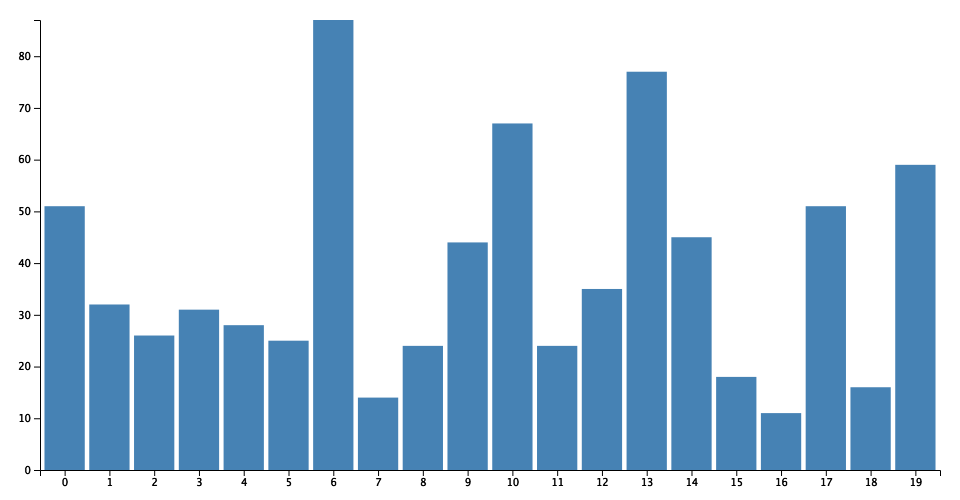
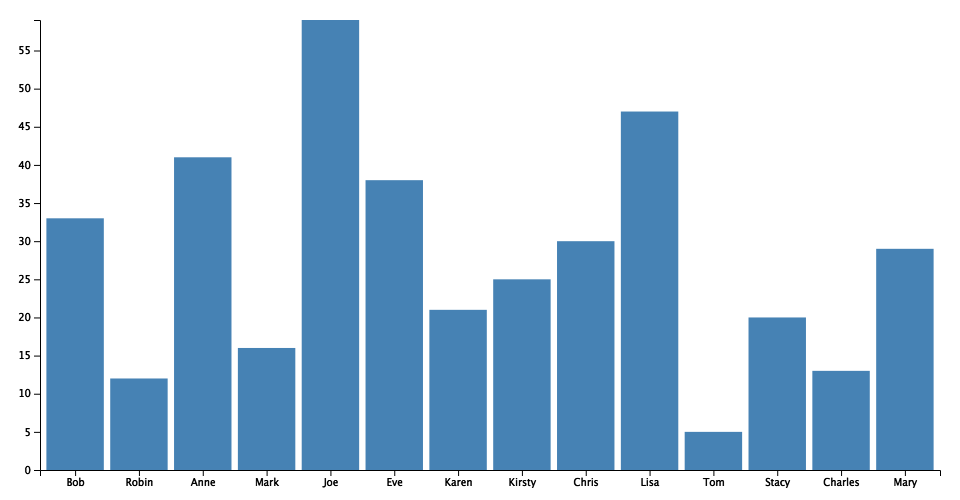
add data files readding; update dependencies

diff --git a/example/output.html b/example/output.html
@@ -3,6 +3,6 @@
       <div id="chart"><svg xmlns="http://www.w3.org/2000/svg" width="960" height="500"><defs><style type="text/css"><![CDATA[ 
     .bar { fill: steelblue; }
     .bar:hover { fill: brown; }
-   ]]></style></defs><g transform="translate(40, 20)"><rect class="bar" x="4.477611940298459" width="40.29850746268657" y="186.20689655172418" height="263.7931034482758"></rect><rect class="bar" x="49.25373134328354" width="40.29850746268657" y="284.48275862068965" height="165.51724137931035"></rect><rect class="bar" x="94.02985074626862" width="40.29850746268657" y="315.51724137931035" height="134.48275862068965"></rect><rect class="bar" x="138.8059701492537" width="40.29850746268657" y="289.65517241379314" height="160.34482758620686"></rect><rect class="bar" x="183.58208955223878" width="40.29850746268657" y="305.1724137931035" height="144.8275862068965"></rect><rect class="bar" x="228.35820895522386" width="40.29850746268657" y="320.68965517241384" height="129.31034482758616"></rect><rect class="bar" x="273.13432835820896" width="40.29850746268657" y="0" height="450"></rect><rect class="bar" x="317.910447761194" width="40.29850746268657" y="377.58620689655174" height="72.41379310344826"></rect><rect class="bar" x="362.6865671641791" width="40.29850746268657" y="325.8620689655172" height="124.13793103448279"></rect><rect class="bar" x="407.4626865671642" width="40.29850746268657" y="222.41379310344826" height="227.58620689655174"></rect><rect class="bar" x="452.23880597014926" width="40.29850746268657" y="103.44827586206901" height="346.551724137931"></rect><rect class="bar" x="497.01492537313436" width="40.29850746268657" y="325.8620689655172" height="124.13793103448279"></rect><rect class="bar" x="541.7910447761194" width="40.29850746268657" y="268.9655172413793" height="181.0344827586207"></rect><rect class="bar" x="586.5671641791046" width="40.29850746268657" y="51.72413793103448" height="398.2758620689655"></rect><rect class="bar" x="631.3432835820895" width="40.29850746268657" y="217.24137931034483" height="232.75862068965517"></rect><rect class="bar" x="676.1194029850747" width="40.29850746268657" y="356.8965517241379" height="93.10344827586209"></rect><rect class="bar" x="720.8955223880598" width="40.29850746268657" y="393.1034482758621" height="56.89655172413791"></rect><rect class="bar" x="765.6716417910447" width="40.29850746268657" y="186.20689655172418" height="263.7931034482758"></rect><rect class="bar" x="810.4477611940299" width="40.29850746268657" y="367.2413793103448" height="82.75862068965517"></rect><rect class="bar" x="855.2238805970151" width="40.29850746268657" y="144.82758620689657" height="305.17241379310343"></rect><g transform="translate(0,450)" fill="none" font-size="10" font-family="sans-serif" text-anchor="middle"><path class="domain" stroke="#000" d="M0.5,6V0.5H900.5V6"></path><g class="tick" opacity="1" transform="translate(24.626865671641745,0)"><line stroke="#000" y2="6" x1="0.5" x2="0.5"></line><text fill="#000" y="9" x="0.5" dy="0.71em">0</text></g><g class="tick" opacity="1" transform="translate(69.40298507462683,0)"><line stroke="#000" y2="6" x1="0.5" x2="0.5"></line><text fill="#000" y="9" x="0.5" dy="0.71em">1</text></g><g class="tick" opacity="1" transform="translate(114.1791044776119,0)"><line stroke="#000" y2="6" x1="0.5" x2="0.5"></line><text fill="#000" y="9" x="0.5" dy="0.71em">2</text></g><g class="tick" opacity="1" transform="translate(158.955223880597,0)"><line stroke="#000" y2="6" x1="0.5" x2="0.5"></line><text fill="#000" y="9" x="0.5" dy="0.71em">3</text></g><g class="tick" opacity="1" transform="translate(203.73134328358208,0)"><line stroke="#000" y2="6" x1="0.5" x2="0.5"></line><text fill="#000" y="9" x="0.5" dy="0.71em">4</text></g><g class="tick" opacity="1" transform="translate(248.50746268656715,0)"><line stroke="#000" y2="6" x1="0.5" x2="0.5"></line><text fill="#000" y="9" x="0.5" dy="0.71em">5</text></g><g class="tick" opacity="1" transform="translate(293.2835820895522,0)"><line stroke="#000" y2="6" x1="0.5" x2="0.5"></line><text fill="#000" y="9" x="0.5" dy="0.71em">6</text></g><g class="tick" opacity="1" transform="translate(338.0597014925373,0)"><line stroke="#000" y2="6" x1="0.5" x2="0.5"></line><text fill="#000" y="9" x="0.5" dy="0.71em">7</text></g><g class="tick" opacity="1" transform="translate(382.8358208955224,0)"><line stroke="#000" y2="6" x1="0.5" x2="0.5"></line><text fill="#000" y="9" x="0.5" dy="0.71em">8</text></g><g class="tick" opacity="1" transform="translate(427.6119402985075,0)"><line stroke="#000" y2="6" x1="0.5" x2="0.5"></line><text fill="#000" y="9" x="0.5" dy="0.71em">9</text></g><g class="tick" opacity="1" transform="translate(472.3880597014925,0)"><line stroke="#000" y2="6" x1="0.5" x2="0.5"></line><text fill="#000" y="9" x="0.5" dy="0.71em">10</text></g><g class="tick" opacity="1" transform="translate(517.1641791044776,0)"><line stroke="#000" y2="6" x1="0.5" x2="0.5"></line><text fill="#000" y="9" x="0.5" dy="0.71em">11</text></g><g class="tick" opacity="1" transform="translate(561.9402985074627,0)"><line stroke="#000" y2="6" x1="0.5" x2="0.5"></line><text fill="#000" y="9" x="0.5" dy="0.71em">12</text></g><g class="tick" opacity="1" transform="translate(606.7164179104478,0)"><line stroke="#000" y2="6" x1="0.5" x2="0.5"></line><text fill="#000" y="9" x="0.5" dy="0.71em">13</text></g><g class="tick" opacity="1" transform="translate(651.4925373134328,0)"><line stroke="#000" y2="6" x1="0.5" x2="0.5"></line><text fill="#000" y="9" x="0.5" dy="0.71em">14</text></g><g class="tick" opacity="1" transform="translate(696.2686567164179,0)"><line stroke="#000" y2="6" x1="0.5" x2="0.5"></line><text fill="#000" y="9" x="0.5" dy="0.71em">15</text></g><g class="tick" opacity="1" transform="translate(741.0447761194031,0)"><line stroke="#000" y2="6" x1="0.5" x2="0.5"></line><text fill="#000" y="9" x="0.5" dy="0.71em">16</text></g><g class="tick" opacity="1" transform="translate(785.820895522388,0)"><line stroke="#000" y2="6" x1="0.5" x2="0.5"></line><text fill="#000" y="9" x="0.5" dy="0.71em">17</text></g><g class="tick" opacity="1" transform="translate(830.5970149253732,0)"><line stroke="#000" y2="6" x1="0.5" x2="0.5"></line><text fill="#000" y="9" x="0.5" dy="0.71em">18</text></g><g class="tick" opacity="1" transform="translate(875.3731343283583,0)"><line stroke="#000" y2="6" x1="0.5" x2="0.5"></line><text fill="#000" y="9" x="0.5" dy="0.71em">19</text></g></g><g fill="none" font-size="10" font-family="sans-serif" text-anchor="end"><path class="domain" stroke="#000" d="M-6,450.5H0.5V0.5H-6"></path><g class="tick" opacity="1" transform="translate(0,450)"><line stroke="#000" x2="-6" y1="0.5" y2="0.5"></line><text fill="#000" x="-9" y="0.5" dy="0.32em">0</text></g><g class="tick" opacity="1" transform="translate(0,398.2758620689655)"><line stroke="#000" x2="-6" y1="0.5" y2="0.5"></line><text fill="#000" x="-9" y="0.5" dy="0.32em">10</text></g><g class="tick" opacity="1" transform="translate(0,346.55172413793105)"><line stroke="#000" x2="-6" y1="0.5" y2="0.5"></line><text fill="#000" x="-9" y="0.5" dy="0.32em">20</text></g><g class="tick" opacity="1" transform="translate(0,294.8275862068965)"><line stroke="#000" x2="-6" y1="0.5" y2="0.5"></line><text fill="#000" x="-9" y="0.5" dy="0.32em">30</text></g><g class="tick" opacity="1" transform="translate(0,243.10344827586206)"><line stroke="#000" x2="-6" y1="0.5" y2="0.5"></line><text fill="#000" x="-9" y="0.5" dy="0.32em">40</text></g><g class="tick" opacity="1" transform="translate(0,191.37931034482762)"><line stroke="#000" x2="-6" y1="0.5" y2="0.5"></line><text fill="#000" x="-9" y="0.5" dy="0.32em">50</text></g><g class="tick" opacity="1" transform="translate(0,139.65517241379308)"><line stroke="#000" x2="-6" y1="0.5" y2="0.5"></line><text fill="#000" x="-9" y="0.5" dy="0.32em">60</text></g><g class="tick" opacity="1" transform="translate(0,87.9310344827586)"><line stroke="#000" x2="-6" y1="0.5" y2="0.5"></line><text fill="#000" x="-9" y="0.5" dy="0.32em">70</text></g><g class="tick" opacity="1" transform="translate(0,36.20689655172413)"><line stroke="#000" x2="-6" y1="0.5" y2="0.5"></line><text fill="#000" x="-9" y="0.5" dy="0.32em">80</text></g></g></g></svg></div>
+   ]]></style></defs><g transform="translate(40, 20)"><rect class="bar" x="6.3829787234042215" width="57.4468085106383" y="198.30508474576274" height="251.69491525423726"></rect><rect class="bar" x="70.21276595744678" width="57.4468085106383" y="358.47457627118644" height="91.52542372881356"></rect><rect class="bar" x="134.04255319148933" width="57.4468085106383" y="137.28813559322032" height="312.7118644067797"></rect><rect class="bar" x="197.8723404255319" width="57.4468085106383" y="327.96610169491527" height="122.03389830508473"></rect><rect class="bar" x="261.70212765957444" width="57.4468085106383" y="0" height="450"></rect><rect class="bar" x="325.531914893617" width="57.4468085106383" y="160.16949152542378" height="289.8305084745762"></rect><rect class="bar" x="389.36170212765956" width="57.4468085106383" y="289.8305084745763" height="160.16949152542372"></rect><rect class="bar" x="453.1914893617021" width="57.4468085106383" y="259.3220338983051" height="190.6779661016949"></rect><rect class="bar" x="517.0212765957447" width="57.4468085106383" y="221.18644067796612" height="228.81355932203388"></rect><rect class="bar" x="580.8510638297872" width="57.4468085106383" y="91.52542372881356" height="358.47457627118644"></rect><rect class="bar" x="644.6808510638298" width="57.4468085106383" y="411.864406779661" height="38.13559322033899"></rect><rect class="bar" x="708.5106382978723" width="57.4468085106383" y="297.45762711864404" height="152.54237288135596"></rect><rect class="bar" x="772.3404255319149" width="57.4468085106383" y="350.8474576271186" height="99.15254237288138"></rect><rect class="bar" x="836.1702127659574" width="57.4468085106383" y="228.81355932203388" height="221.18644067796612"></rect><g transform="translate(0,450)" fill="none" font-size="10" font-family="sans-serif" text-anchor="middle"><path class="domain" stroke="#000" d="M0.5,6V0.5H900.5V6"></path><g class="tick" opacity="1" transform="translate(35.106382978723374,0)"><line stroke="#000" y2="6" x1="0.5" x2="0.5"></line><text fill="#000" y="9" x="0.5" dy="0.71em">Bob</text></g><g class="tick" opacity="1" transform="translate(98.93617021276593,0)"><line stroke="#000" y2="6" x1="0.5" x2="0.5"></line><text fill="#000" y="9" x="0.5" dy="0.71em">Robin</text></g><g class="tick" opacity="1" transform="translate(162.76595744680847,0)"><line stroke="#000" y2="6" x1="0.5" x2="0.5"></line><text fill="#000" y="9" x="0.5" dy="0.71em">Anne</text></g><g class="tick" opacity="1" transform="translate(226.59574468085103,0)"><line stroke="#000" y2="6" x1="0.5" x2="0.5"></line><text fill="#000" y="9" x="0.5" dy="0.71em">Mark</text></g><g class="tick" opacity="1" transform="translate(290.4255319148936,0)"><line stroke="#000" y2="6" x1="0.5" x2="0.5"></line><text fill="#000" y="9" x="0.5" dy="0.71em">Joe</text></g><g class="tick" opacity="1" transform="translate(354.25531914893617,0)"><line stroke="#000" y2="6" x1="0.5" x2="0.5"></line><text fill="#000" y="9" x="0.5" dy="0.71em">Eve</text></g><g class="tick" opacity="1" transform="translate(418.0851063829787,0)"><line stroke="#000" y2="6" x1="0.5" x2="0.5"></line><text fill="#000" y="9" x="0.5" dy="0.71em">Karen</text></g><g class="tick" opacity="1" transform="translate(481.9148936170213,0)"><line stroke="#000" y2="6" x1="0.5" x2="0.5"></line><text fill="#000" y="9" x="0.5" dy="0.71em">Kirsty</text></g><g class="tick" opacity="1" transform="translate(545.7446808510638,0)"><line stroke="#000" y2="6" x1="0.5" x2="0.5"></line><text fill="#000" y="9" x="0.5" dy="0.71em">Chris</text></g><g class="tick" opacity="1" transform="translate(609.5744680851063,0)"><line stroke="#000" y2="6" x1="0.5" x2="0.5"></line><text fill="#000" y="9" x="0.5" dy="0.71em">Lisa</text></g><g class="tick" opacity="1" transform="translate(673.4042553191489,0)"><line stroke="#000" y2="6" x1="0.5" x2="0.5"></line><text fill="#000" y="9" x="0.5" dy="0.71em">Tom</text></g><g class="tick" opacity="1" transform="translate(737.2340425531914,0)"><line stroke="#000" y2="6" x1="0.5" x2="0.5"></line><text fill="#000" y="9" x="0.5" dy="0.71em">Stacy</text></g><g class="tick" opacity="1" transform="translate(801.063829787234,0)"><line stroke="#000" y2="6" x1="0.5" x2="0.5"></line><text fill="#000" y="9" x="0.5" dy="0.71em">Charles</text></g><g class="tick" opacity="1" transform="translate(864.8936170212766,0)"><line stroke="#000" y2="6" x1="0.5" x2="0.5"></line><text fill="#000" y="9" x="0.5" dy="0.71em">Mary</text></g></g><g fill="none" font-size="10" font-family="sans-serif" text-anchor="end"><path class="domain" stroke="#000" d="M-6,450.5H0.5V0.5H-6"></path><g class="tick" opacity="1" transform="translate(0,450)"><line stroke="#000" x2="-6" y1="0.5" y2="0.5"></line><text fill="#000" x="-9" y="0.5" dy="0.32em">0</text></g><g class="tick" opacity="1" transform="translate(0,411.864406779661)"><line stroke="#000" x2="-6" y1="0.5" y2="0.5"></line><text fill="#000" x="-9" y="0.5" dy="0.32em">5</text></g><g class="tick" opacity="1" transform="translate(0,373.728813559322)"><line stroke="#000" x2="-6" y1="0.5" y2="0.5"></line><text fill="#000" x="-9" y="0.5" dy="0.32em">10</text></g><g class="tick" opacity="1" transform="translate(0,335.5932203389831)"><line stroke="#000" x2="-6" y1="0.5" y2="0.5"></line><text fill="#000" x="-9" y="0.5" dy="0.32em">15</text></g><g class="tick" opacity="1" transform="translate(0,297.45762711864404)"><line stroke="#000" x2="-6" y1="0.5" y2="0.5"></line><text fill="#000" x="-9" y="0.5" dy="0.32em">20</text></g><g class="tick" opacity="1" transform="translate(0,259.3220338983051)"><line stroke="#000" x2="-6" y1="0.5" y2="0.5"></line><text fill="#000" x="-9" y="0.5" dy="0.32em">25</text></g><g class="tick" opacity="1" transform="translate(0,221.18644067796612)"><line stroke="#000" x2="-6" y1="0.5" y2="0.5"></line><text fill="#000" x="-9" y="0.5" dy="0.32em">30</text></g><g class="tick" opacity="1" transform="translate(0,183.05084745762713)"><line stroke="#000" x2="-6" y1="0.5" y2="0.5"></line><text fill="#000" x="-9" y="0.5" dy="0.32em">35</text></g><g class="tick" opacity="1" transform="translate(0,144.91525423728814)"><line stroke="#000" x2="-6" y1="0.5" y2="0.5"></line><text fill="#000" x="-9" y="0.5" dy="0.32em">40</text></g><g class="tick" opacity="1" transform="translate(0,106.77966101694915)"><line stroke="#000" x2="-6" y1="0.5" y2="0.5"></line><text fill="#000" x="-9" y="0.5" dy="0.32em">45</text></g><g class="tick" opacity="1" transform="translate(0,68.64406779661016)"><line stroke="#000" x2="-6" y1="0.5" y2="0.5"></line><text fill="#000" x="-9" y="0.5" dy="0.32em">50</text></g><g class="tick" opacity="1" transform="translate(0,30.508474576271226)"><line stroke="#000" x2="-6" y1="0.5" y2="0.5"></line><text fill="#000" x="-9" y="0.5" dy="0.32em">55</text></g></g></g></svg></div>
     </div>
   </body></html>

diff --git a/example/index.js b/example/index.js
@@ -1,18 +1,10 @@
+const fs = require('fs');
 const output = require('d3node-output');
+const d3 = require('d3-node')().d3;
 const d3nBar = require('../');
 
-const gen = n => {
-  const data = [];
-
-  for (let i = 0; i < n; ++i) {
-    data.push({
-      key: i,
-      value: Math.max(10, Math.floor(Math.random() * 100)),
-    });
-  }
-
-  return data;
-};
+const csvString = fs.readFileSync('data/data.csv').toString();
+const data = d3.csvParse(csvString);
 
 // create output files
-output('./example/output', d3nBar({ data: gen(20) }));
+output('./example/output', d3nBar({ data: data }));
